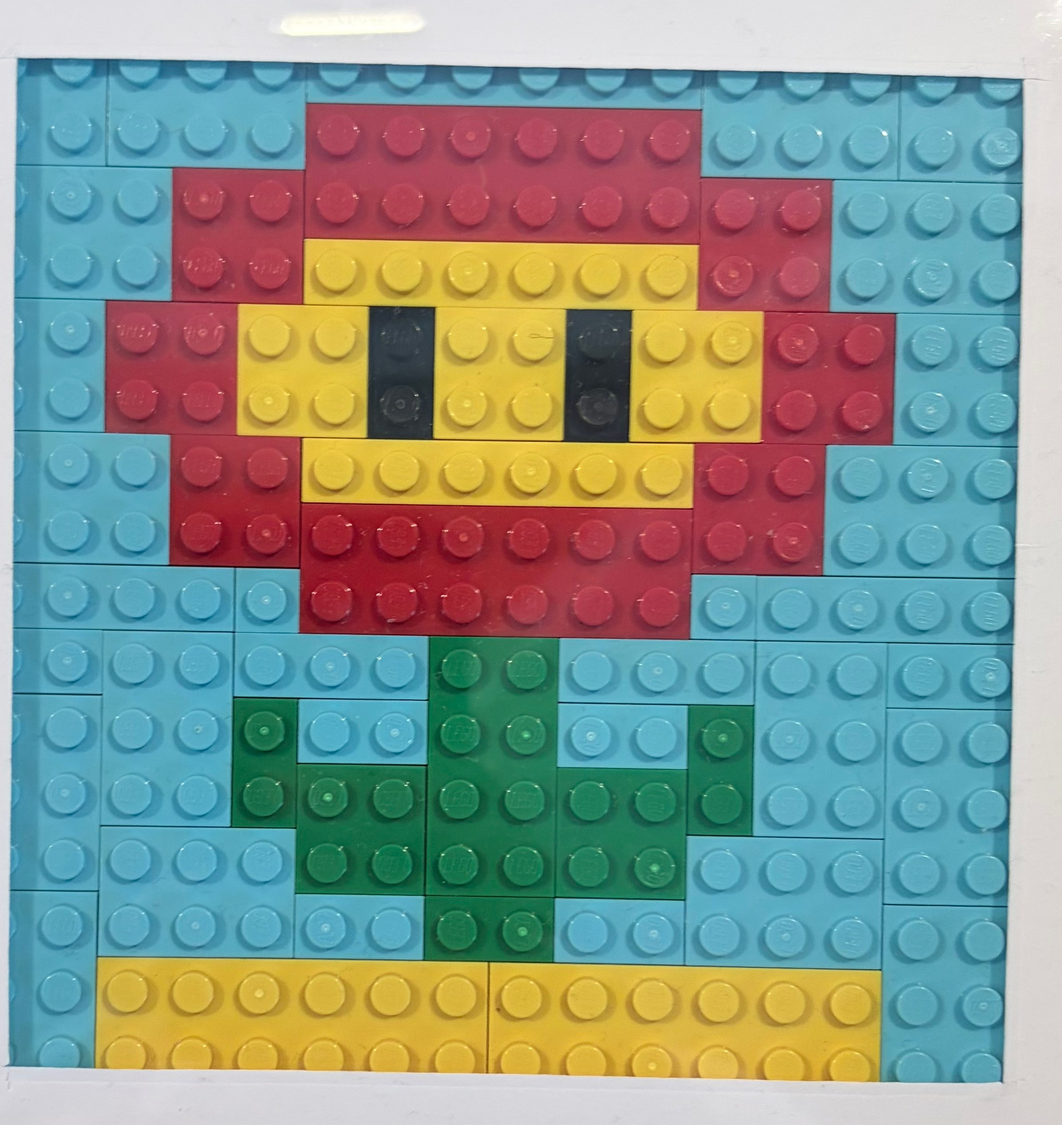
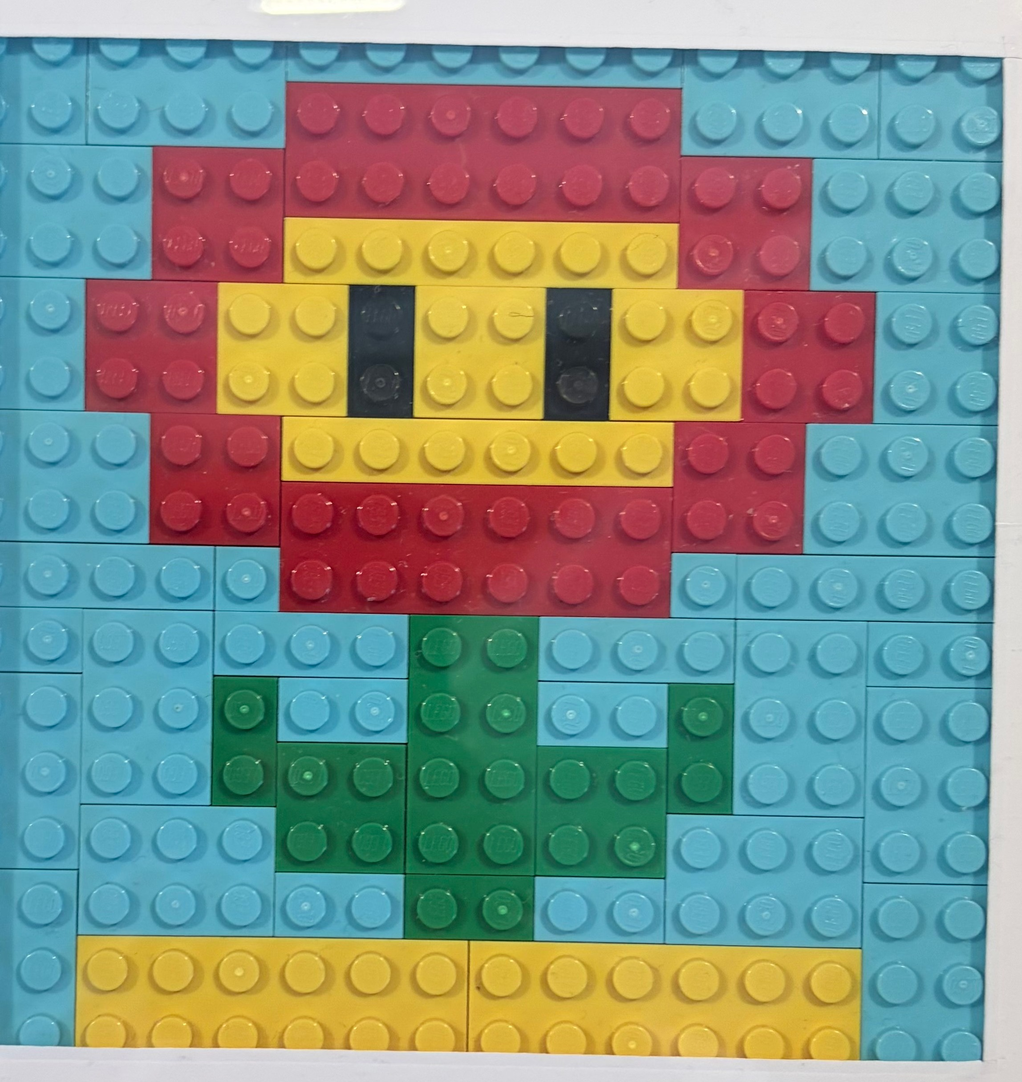
Detect the grid in tightly cropped photos; fix the 1% crop eval set
Accept a mosaic that fills the frame, treat the photo border as a valid
mosaic boundary, catch 2x period harmonics, lower confidence when edge
cues contradict, and seed the fit from user corners when they agree.
Grids correct on tight crops: 1/8 -> 7/8 (1% margin), 6/8 -> 7/8 (3%).

fixtures/cropped was accidentally committed as a copy of the 3% set;
regenerated from clean HEAD with --margin 0.01.

Claude-Session: https://claude.ai/code/session_01FDAoqJYUxXG4ky7s93dJeV

diff --git a/src/pipeline/grid.ts b/src/pipeline/grid.ts
@@ -19,6 +19,8 @@ export const MIN_STUDS = 8;
 export const MAX_STUDS = 48;
 /** Below this grid confidence the scan reports grid_failed instead of guessing. */
 export const GRID_MIN_CONFIDENCE = 0.55;
+/** On a side cut by the photo, a frame line must be this much stronger than a typical seam/stud edge. */
+export const FRAME_LINE_STRENGTH = 2.5;
 /** Edge cell must be at least this fraction visible (stud centre visible) to count. */
 export const EDGE_VISIBLE = 0.5;
 
@@ -163,6 +165,7 @@ export function axisPeriod(p: Float64Array, inner: [number, number], nFixed?: nu
   const { T, peak } = findPeriod(p, ia, ib, tMin, tMax);
   return { T, peak, phase: findPhase(p, ia, ib, T) };
 }
+
 
 /**
  * Stud evidence of every lattice strip along one axis. For x strips [o+kT, o+(k+1)T) (or the
@@ -470,8 +473,20 @@ export function fitGrid(src: RgbaImage, quad: Quad, opts: FitGridOptions = {}): 
     const pr1 = gradientProfiles(g1, W1, H1, { x0: m1, x1: W1 - m1, y0: m1, y1: H1 - m1 });
     const innerX: [number, number] = [m1, W1 - m1];
     const innerY: [number, number] = [m1, H1 - m1];
-    const ax = axisPeriod(pr1.px, innerX, opts.gridOverride?.cols, expect?.cols);
-    const ay = axisPeriod(pr1.py, innerY, opts.gridOverride?.rows, expect?.rows);
+    let ax = axisPeriod(pr1.px, innerX, opts.gridOverride?.cols, expect?.cols);
+    let ay = axisPeriod(pr1.py, innerY, opts.gridOverride?.rows, expect?.rows);
+    // Studs are square and the coarse warp keeps the quad's aspect: periods differing by ~2x
+    // mean one axis locked onto a harmonic; re-search the longer one near the shorter.
+    if (!opts.gridOverride && !expect) {
+      const redo = (p: Float64Array, inner: [number, number], T: number): AxisPeriod => {
+        const sp = inner[1] - inner[0];
+        const ia = Math.round(inner[0] + sp * 0.04), ib = Math.round(inner[1] - sp * 0.04);
+        const r = findPeriod(p, ia, ib, T * 0.9, T * 1.1);
+        return { T: r.T, peak: r.peak, phase: findPhase(p, ia, ib, r.T) };
+      };
+      if (ay.T > ax.T * 1.6) ay = redo(pr1.py, innerY, ax.T);
+      else if (ax.T > ay.T * 1.6) ax = redo(pr1.px, innerX, ay.T);
+    }
     const matRgb = sampleMat(w1.img, innerX, innerY, Math.round(m1 * 0.6));
     // Phase: the fundamental peaks either on cell boundaries or on stud centres depending on
     // lighting; pick the lattice whose cell centres sit on stud outlines.
@@ -500,17 +515,40 @@ export function fitGrid(src: RgbaImage, quad: Quad, opts: FitGridOptions = {}): 
     let ambiguousEdges = 0;
     if (doTrim && !opts.gridOverride) {
       const trim = (f: RunResult, p: Float64Array, T: number, tag: string, ce: { k0: number; per: number[] }, o: number) => {
-        const lo = frameEdge(p, f.start - 0.4 * T, f.start + 0.9 * T);
+        // Where the photo ends along this axis (centre line); a side cut by the photo border may
+        // show no frame line at all, in which case the border itself bounds the cell.
+        const isX = tag === 'X';
+        const len = isX ? W1 : H1;
+        const at = (u: number) => (isX ? Math.round(H1 / 2) * W1 + u : u * W1 + Math.round(W1 / 2));
+        let vLo0 = 0, vHi0 = len - 1;
+        while (vLo0 < len - 1 && !valid[at(vLo0)]) vLo0++;
+        while (vHi0 > 0 && !valid[at(vHi0)]) vHi0--;
         const hiB = f.start + f.n * T;
-        const hi = frameEdge(p, hiB - 0.9 * T, hiB + 0.4 * T);
-        const vLo = (f.start + T - lo) / T, vHi = (hi - (hiB - T)) / T;
+        const sums: number[] = [];
+        for (let x = Math.round(f.start + T); x < Math.round(hiB - T); x++) sums.push(p[x - 1] + p[x] + p[x + 1]);
+        const lineRef = median(sums) || 1e-9;
+        const edgeAt = (a: number, b: number, fallback: number, cut: boolean) => {
+          const e = frameEdge(p, cut ? Math.max(a, vLo0 + 2) : a, cut ? Math.min(b, vHi0 - 2) : b);
+          if (!cut || e < 0) return e < 0 ? fallback : e;
+          const strength = p[e - 1] + p[e] + p[e + 1];
+          return strength >= FRAME_LINE_STRENGTH * lineRef ? e : fallback;
+        };
+        const lo = edgeAt(f.start - 0.4 * T, f.start + 0.9 * T, vLo0, f.truncated[0]);
+        const hi = edgeAt(hiB - 0.9 * T, hiB + 0.4 * T, vHi0, f.truncated[1]);
+        const vLo = Math.min(1.5, (f.start + T - lo) / T), vHi = Math.min(1.5, (hi - (hiB - T)) / T);
         const i0 = Math.round((f.start - o) / T) - ce.k0;
         const ref = median(ce.per.slice(i0 + 2, i0 + f.n - 2)) || 1e-9;
         const cLo = (ce.per[i0] ?? 0) / ref, cHi = (ce.per[i0 + f.n - 1] ?? 0) / ref;
-        const drop = (v: number, c: number) => (v < EDGE_VISIBLE && c < 1) || (v < 0.6 && c < 0.62);
-        const ambiguous = (v: number, c: number) => v > 0.4 && v < 0.65 && c > 0.45 && c < 1.1;
+        // a cell "mostly hidden" by the frame-edge cue but with a clear stud at its centre means
+        // the edge cue latched onto a seam: trust the centre evidence then
+        const drop = (v: number, c: number) =>
+          (v < EDGE_VISIBLE && c < 0.9 && !(v < 0.3 && c > 0.6)) || (v < 0.6 && c < 0.62);
+        // uncertainty of a keep/drop call: in the overlap band of both cues, or cues that
+        // contradict each other (frame edge says hidden, centre says stud)
+        const ambiguous = (v: number, c: number) =>
+          (v < 0.3 && c > 0.6 ? 2 : 0) + (v > 0.4 && v < 0.65 && c > 0.45 && c < 1.1 ? 1 : 0);
         debug[tagP + 'vis' + tag] = `${vLo.toFixed(2)}/${cLo.toFixed(2)} ${vHi.toFixed(2)}/${cHi.toFixed(2)}`;
-        ambiguousEdges += +ambiguous(vLo, cLo) + +ambiguous(vHi, cHi);
+        ambiguousEdges += ambiguous(vLo, cLo) + ambiguous(vHi, cHi);
         const dLo = drop(vLo, cLo) && f.n > MIN_STUDS, dHi = drop(vHi, cHi) && f.n > MIN_STUDS;
         if (dLo) { f.start += T; f.n -= 1; }
         if (dHi) f.n -= 1;
@@ -601,7 +639,8 @@ export function fitGrid(src: RgbaImage, quad: Quad, opts: FitGridOptions = {}): 
   const quadAspect = Math.abs(Math.log((cols / rows) / (qw / qh)));
   // (4) edge evidence: each non-cut side must step clearly from studs to not-studs
   const contrasts = [...fx.edgeContrast, ...fy.edgeContrast].filter((v) => !Number.isNaN(v));
-  const minEdge = contrasts.length ? Math.min(...contrasts) : 0;
+  // sides cut by the photo border have no outside to compare with: the border is the boundary
+  const minEdge = contrasts.length ? Math.min(...contrasts) : 1;
   const cutSides = [...fx.truncated, ...fy.truncated].filter(Boolean).length;
   const openSides = [...fx.openEnded, ...fy.openEnded].filter(Boolean).length;
   const inRange = cols >= MIN_STUDS && cols <= MAX_STUDS && rows >= MIN_STUDS && rows <= MAX_STUDS;
@@ -615,7 +654,7 @@ export function fitGrid(src: RgbaImage, quad: Quad, opts: FitGridOptions = {}): 
   penal(minEdge < 0.3, minEdge < 0.15 ? 0.5 : 0.85, `weak edge ${minEdge.toFixed(2)}`);
   penal(cutSides >= 2, 0.85, `${cutSides} sides cut by photo`);
   penal(!refined, 0.85, 'keystone refinement rejected');
-  penal(ambiguousEdges > 0, Math.pow(0.92, ambiguousEdges), `${ambiguousEdges} half-visible edge rows/cols`);
+  penal(ambiguousEdges > 0, Math.pow(0.85, ambiguousEdges), `edge visibility uncertain (${ambiguousEdges})`);
   if (!inRange) { confidence = 0; reasons.push('size out of range'); }
   debug.peak = +peak.toFixed(2);
   debug.drift = +drift.toFixed(2);

diff --git a/tests/unit/pipeline.test.ts b/tests/unit/pipeline.test.ts
@@ -4,6 +4,7 @@ import { loadOpenCvNode as loadOpenCv } from './cvNode';
 import { detectQuad } from '../../src/pipeline/preprocess';
 import { regroup, runPipeline } from '../../src/pipeline/run';
 import { demoLayout, renderMosaic } from './synth';
+import type { Quad } from '../../src/pipeline/types';
 
 let cv: CV;
 beforeAll(async () => {
@@ -35,6 +36,28 @@ describe('runPipeline (OpenCV.js) on a synthetic photo', () => {
     const pairs = r.pairs!.map((p) => (p.col === p0.x && p.row === p0.y && p.dir === 'h' ? { ...p, seam: true, manual: true } : p));
     const g = regroup(r.cells!, r.grid!, pairs);
     expect(g.pieceCount).toBe(r.pieceCount + 1);
+  });
+
+  it('re-scan with user corners slightly outside the mosaic succeeds', async () => {
+    const cx = img.width / 2, cy = img.height / 2;
+    const loose = corners.map(([x, y]) => [cx + (x - cx) * 1.05, cy + (y - cy) * 1.05]) as Quad;
+    const r = await runPipeline(cv, img, { classifier: 'heuristic', countBaseplate: true, corners: loose });
+    expect(r.status).toBe('ok');
+    expect(r.grid).toMatchObject({ cols: 16, rows: 16 });
+  });
+
+  it('re-scan with user corners at the photo corners of a tightly cropped photo succeeds', async () => {
+    const pad = 8;
+    const x0 = Math.round(Math.min(...corners.map((c) => c[0]))) - pad, y0 = Math.round(Math.min(...corners.map((c) => c[1]))) - pad;
+    const x1 = Math.round(Math.max(...corners.map((c) => c[0]))) + pad, y1 = Math.round(Math.max(...corners.map((c) => c[1]))) + pad;
+    const w = x1 - x0, h = y1 - y0;
+    const data = new Uint8ClampedArray(w * h * 4);
+    for (let y = 0; y < h; y++) data.set(img.data.subarray(((y0 + y) * img.width + x0) * 4, ((y0 + y) * img.width + x0 + w) * 4), y * w * 4);
+    const r = await runPipeline(cv, { width: w, height: h, data }, {
+      classifier: 'heuristic', countBaseplate: true, corners: [[0, 0], [w - 1, 0], [w - 1, h - 1], [0, h - 1]],
+    });
+    expect(r.status).toBe('ok');
+    expect(r.grid).toMatchObject({ cols: 16, rows: 16 });
   });
 
   it('returns grid_failed for a blank photo', async () => {

diff --git a/tests/unit/grid.test.ts b/tests/unit/grid.test.ts
@@ -53,6 +53,31 @@ describe('fitGrid on a synthetic stud grid', () => {
     expect(fit.grid.rows).toBe(14);
   });
 
+  it('user corners slightly outside the mosaic (on the mat) still give the right grid', () => {
+    const P = 40;
+    const { img, corners } = renderMosaic({ cols: 16, rows: 16, pitch: P, pieces: demoLayout(16, 16), seed: 11 });
+    const cx = img.width / 2, cy = img.height / 2;
+    const loose = corners.map(([x, y]) => [cx + (x - cx) * 1.06, cy + (y - cy) * 1.06]) as Quad;
+    const fit = fitGrid(img, loose);
+    expect(fit.ok).toBe(true);
+    expect([fit.grid.cols, fit.grid.rows]).toEqual([16, 16]);
+    fit.grid.corners.forEach(([x, y], i) => expect(Math.hypot(x - corners[i][0], y - corners[i][1])).toBeLessThan(P * 0.2));
+  });
+
+  it('tight crop: user corners at the photo corners, mosaic filling the frame', () => {
+    const P = 40;
+    const { img, corners } = renderMosaic({ cols: 16, rows: 16, pitch: P, pieces: demoLayout(16, 16), margin: 120, seed: 13 });
+    // crop to the mosaic plus ~1% of mat
+    const pad = Math.round(16 * P * 0.01);
+    const x0 = Math.round(corners[0][0]) - pad, y0 = Math.round(corners[0][1]) - pad;
+    const w = 16 * P + 2 * pad, h = 16 * P + 2 * pad;
+    const data = new Uint8ClampedArray(w * h * 4);
+    for (let y = 0; y < h; y++) data.set(img.data.subarray(((y0 + y) * img.width + x0) * 4, ((y0 + y) * img.width + x0 + w) * 4), y * w * 4);
+    const fit = fitGrid({ width: w, height: h, data }, [[0, 0], [w - 1, 0], [w - 1, h - 1], [0, h - 1]]);
+    expect(fit.ok).toBe(true);
+    expect([fit.grid.cols, fit.grid.rows]).toEqual([16, 16]);
+  });
+
   it('honours gridOverride', () => {
     const { img, corners } = renderMosaic({ cols: 10, rows: 10, pitch: 40, pieces: demoLayout(10, 10) });
     const fit = fitGrid(img, corners as Quad, { gridOverride: { cols: 10, rows: 10 } });

diff --git a/src/pipeline/preprocess.ts b/src/pipeline/preprocess.ts
@@ -94,7 +94,10 @@ export function detectQuad(cv: CV, img: RgbaImage, maxSide = DEFAULT_DETECT_SIDE
       // but background/frame regions touch 3+ sides (or two adjacent ones) and are rejected.
       const tL = r.x <= border, tT = r.y <= border, tR = r.x + r.width >= W - border, tB = r.y + r.height >= H - border;
       const nTouch = +tL + +tT + +tR + +tB;
-      if (nTouch >= 3 || (tL && tT) || (tT && tR) || (tR && tB) || (tB && tL)) continue;
+      // A tightly cropped photo is (almost) all mosaic: allow 3-4 sides when the region fills
+      // most of the frame (frame bars and backgrounds never do).
+      const fillsFrame = area > W * H * 0.55 && r.width > W * 0.8 && r.height > H * 0.8;
+      if (!fillsFrame && (nTouch >= 3 || (tL && tT) || (tT && tR) || (tR && tB) || (tB && tL))) continue;
       const aspect = Math.min(r.width, r.height) / Math.max(r.width, r.height);
       if (aspect < 0.4) continue;
       const fill = area / (r.width * r.height);
